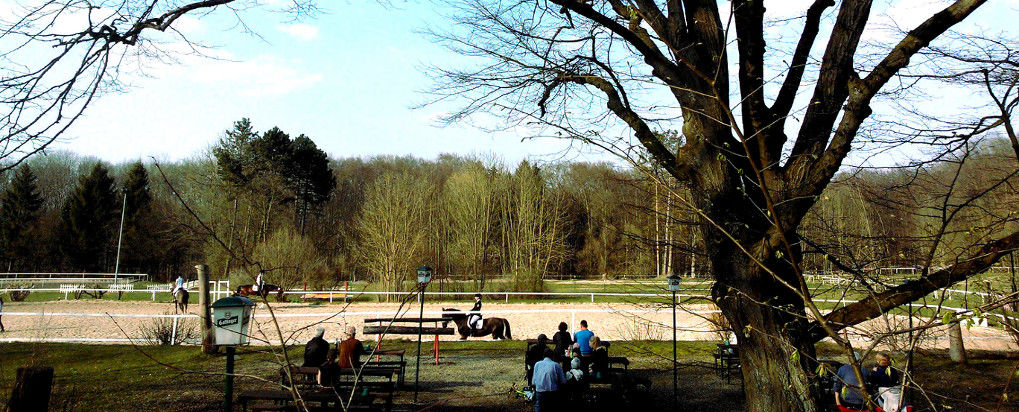
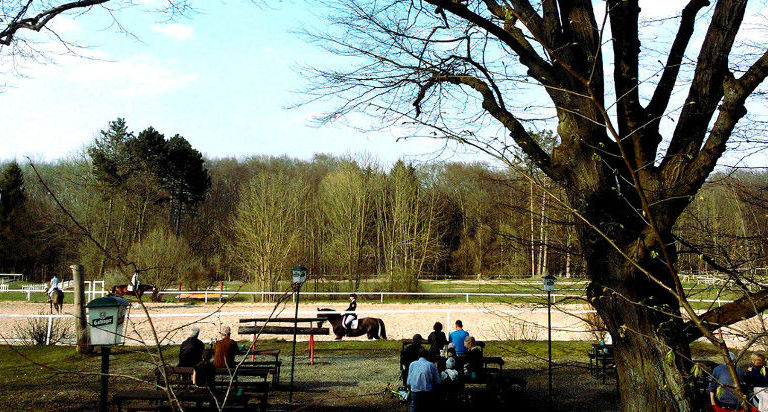
Improve hero images fir page speed

diff --git a/_sass/_base.scss b/_sass/_base.scss
@@ -100,8 +100,11 @@ dd {
 }
 
 @include media-query-down($media-sm) {
-    html { font-size: 12px; }
     #hero-1 { background-image: url('/images/hero-1-sm.jpg'); }
+}
+
+@include media-query-down($media-xs) {
+    #hero-1 { background-image: url('/images/hero-1-xs.jpg'); }
 }
 
 .thumbs {
